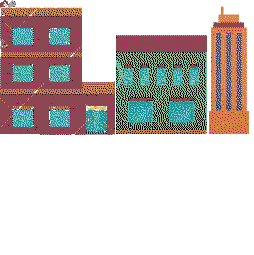
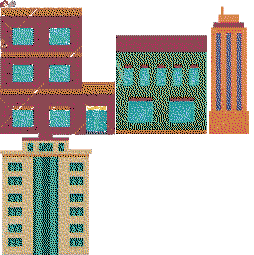
Adicionado prédio 4

Changed region(s): [[0.0, 0.5216, 0.3858, 1.0]]

diff --git a/buiding.py b/buiding.py
@@ -46,18 +46,10 @@ class Building_3(Buildind_1):
 class Building_4(Buildind_1):
     def __init__(self, pyxel, tile_map, player, x_init):
         super().__init__(pyxel, tile_map, player, x_init)
-        self.tile_pos_x = 208
-        self.tile_pos_y = 8
-        self.w = 40
-        self.h = 126
-
-class Building_5(Buildind_1):
-    def __init__(self, pyxel, tile_map, player, x_init):
-        super().__init__(pyxel, tile_map, player, x_init)
-        self.tile_pos_x = 197
-        self.tile_pos_y = 8
-        self.w = 52
-        self.h = 64
+        self.tile_pos_x = 0
+        self.tile_pos_y = 135
+        self.w = 92
+        self.h = 122
 
 
 class Building:
@@ -68,7 +60,7 @@ class Building:
         self.game_height = game_height
         self.lista_building_left = []
         self.lista_building_right = []
-        self.building_options = [Buildind_1, Building_2, Building_3]
+        self.building_options = [Buildind_1, Building_2, Building_3, Building_4]
 
     def get_sum_size_building(self, lista):
         sum_building = sum([i.w + 10 for i in lista])
